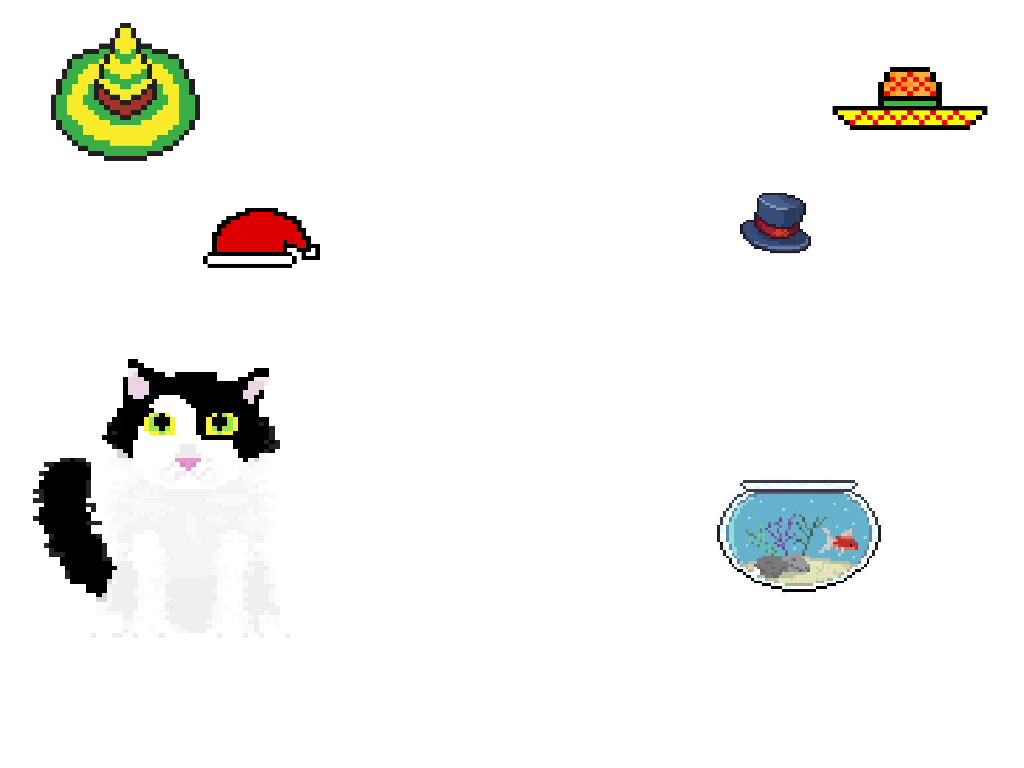
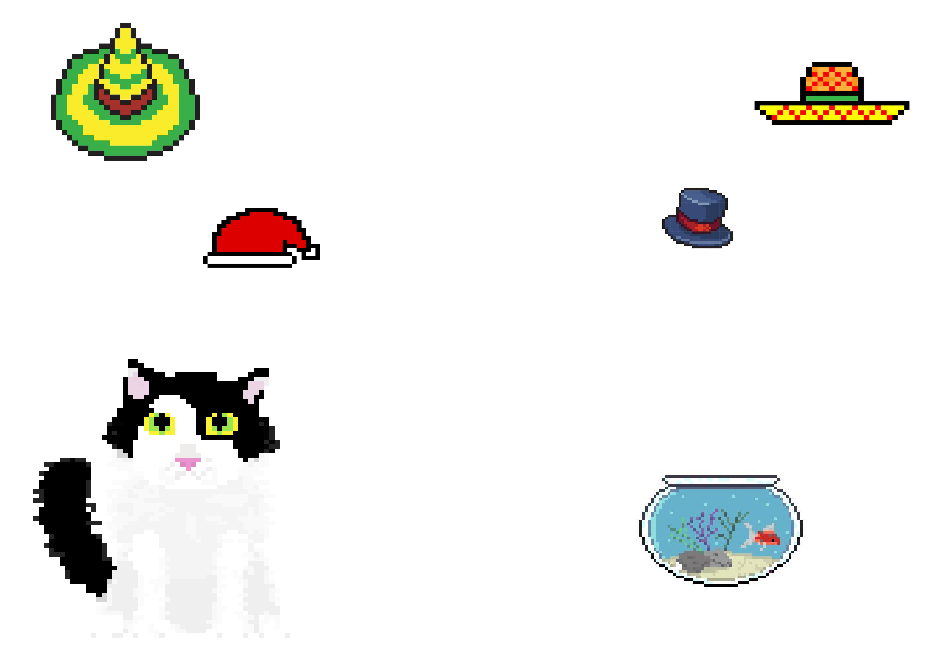
Correcciones a los margenes, preload de los assets, primer acercamiento a la jugabilidad, se muestra puntaje en pantalla, definicion de las funciones que se van a necesitar

diff --git a/js/scenes/playScene.js b/js/scenes/playScene.js
@@ -6,26 +6,128 @@ export class PlayScene extends Phaser.Scene {
     constructor() {
         super('PlayScene');
         console.log(this);
-        this.gameTime = 0;
-        this.gameClicks = 0;
-        this.timer = null;
-        this.card1 = null;
-        this.card2 = null;
-        this.showingTimer = null;
-        this.showingTime = 1000;
-        this.cards = [];
+        this.player = null;
+        this.platform = null;
+        this.score = 0;
+        this.health = 10;
+        this.hats = [];
+        this.objects = {
+            points: [],
+            damage: [],
+            health: []
+        };
+        this.spawnRates = {
+            points: 0.6,
+            damage: 0.3,
+            health: 0.1
+        };
+        this.fallSpeed = 100;
     }
 
     preload() {
+        this.load.image('cat', 'assets/images/cat.png');
+        this.load.image('platform', 'assets/images/platform.png');
+        this.load.image('pointObj', 'assets/images/point.png');
+        this.load.image('damageObj', 'assets/images/damage.png');
+        this.load.image('healthObj', 'assets/images/health.png');
 
+        // Sonidos
+        this.load.audio('pointSound', './assets/sound/point.mp3');
+        this.load.audio('damageSound', './assets/sound/damage.mp3');
+        this.load.audio('healthSound', './assets/sound/health.mp3');
     }
 
     create() {
+        // Configuración inicial
+        const width = GameManager.instance.width;
+        const height = GameManager.instance.height;
 
+        // Fondo
+        this.add.image(width / 2, height / 2, 'menuBg').setDisplaySize(width, height);
+
+        // Efectos de sonido
+        this.pointSound = this.sound.add('pointSound');
+        this.damageSound = this.sound.add('damageSound');
+        this.healthSound = this.sound.add('healthSound');
+
+        // Crear jugador
+        this.player = this.physics.add.sprite(width / 2, height - 100, 'cat');
+        this.player.setCollideWorldBounds(true);
+
+        // Crear plataforma
+        this.platform = this.physics.add.sprite(width / 2, height - 50, 'platform');
+        this.platform.setImmovable(true);
+
+        // Crear HUD
+        this.createHUD();
+
+        // Crear objetos
+        this.spawnObject();
+
+        // Colisiones
+        this.physics.add.collider(this.player, this.platform);
+        this.physics.add.collider(this.objects.points, this.platform);
+        this.physics.add.collider(this.objects.damage, this.platform);
+        this.physics.add.collider(this.objects.health, this.platform);
+
+        // Overlap
+        // this.physics.add.overlap(this.player, this.objects.points, this.collectPoint, null, this);
+        // this.physics.add.overlap(this.player, this.objects.damage, this.collectDamage, null, this);
+        // this.physics.add.overlap(this.player, this.objects.health, this.collectHealth, null, this);
     }
 
     update() {
+        this.checkObjectCollisions();
 
     }
 
+    createHUD() {
+        // Texto de puntuación
+        this.scoreText = this.add.text(
+            20, 20,
+            `Puntos: ${this.score}`,
+            { fontSize: '24px', fill: '#000' }
+        );
+
+        // Texto de salud
+        this.healthText = this.add.text(
+            20, 50,
+            `Salud: ${this.health}`,
+            { fontSize: '24px', fill: '#000' }
+        );
+
+        // Texto de sombreros
+        this.hatsText = this.add.text(
+            20, 80,
+            `Sombreros: ${this.hats.length}`,
+            { fontSize: '24px', fill: '#000' }
+        );
+    }
+
+    spawnObject() {
+    }
+
+    checkObjectCollisions() {
+    }
+
+    calculatePoints() {
+    }
+
+    getRandomHat() {
+    }
+
+    applyHatEffects(hatType) {
+    }
+
+    countHats(type) {
+    }
+
+    showHatMessage(hatType) {
+    }
+
+    increaseDifficulty() {
+    }
+
+    gameOver() {
+    }
 }

diff --git a/js/game.js b/js/game.js
@@ -4,20 +4,27 @@ import { EndScene } from "./scenes/endScene.js";
 
 export class Game extends Phaser.Game {
     constructor(width, height) {
-
         let config = {
             type: Phaser.AUTO,
             width: width,
             height: height,
-            backgroundColor: '#E6E7E8'
-        }
+            backgroundColor: '#E6E7E8',
+            physics: {
+                default: 'arcade',
+                arcade: {
+                    gravity: { y: 0 },
+                    debug: false
+                }
+            },
+        };
 
         super(config);
 
+        // Opcional: Si prefieres registrar escenas manualmente
         this.scene.add('MenuScene', MenuScene);
         this.scene.add('PlayScene', PlayScene);
         this.scene.add('EndScene', EndScene);
+
         this.scene.start('MenuScene');
-        // let game = new Phaser.Game(config);
     }
 }

diff --git a/js/gameManager.js b/js/gameManager.js
@@ -10,9 +10,11 @@ export class GameManager {
             GameManager.instance = this;
         }
 
-        this.width = window.outerWidth;
-        this.height = window.outerHeight
+        this.width = window.innerWidth;
+        this.height = window.innerHeight;
         this.hatsManager = new hatsManager();
         this.game = new Game(this.width, this.height);
+        document.body.style.margin = '0';
+        document.body.style.overflow = 'hidden';
     }
 }
